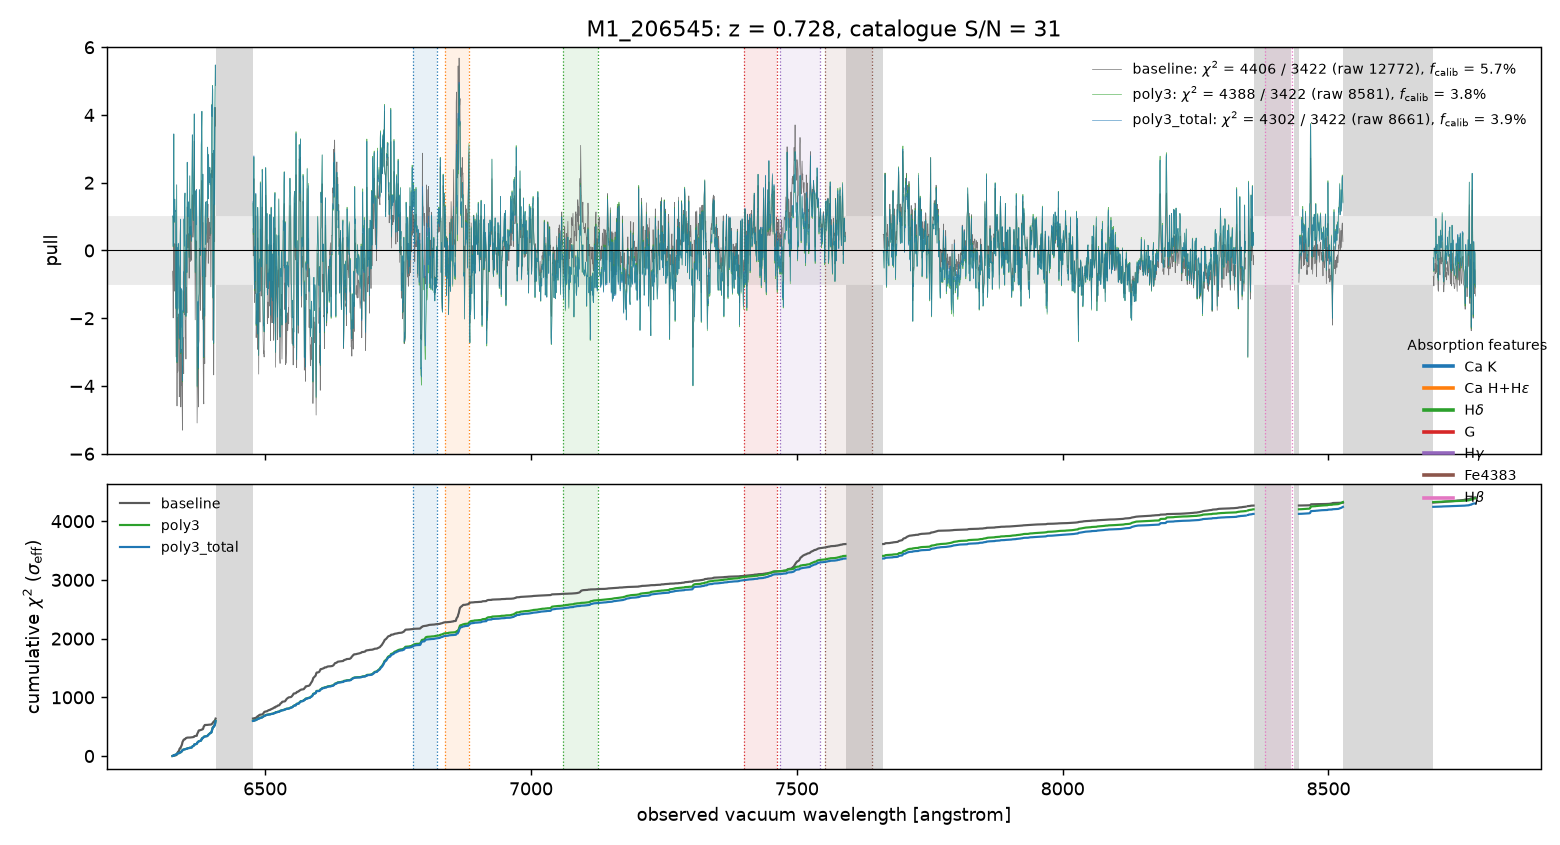
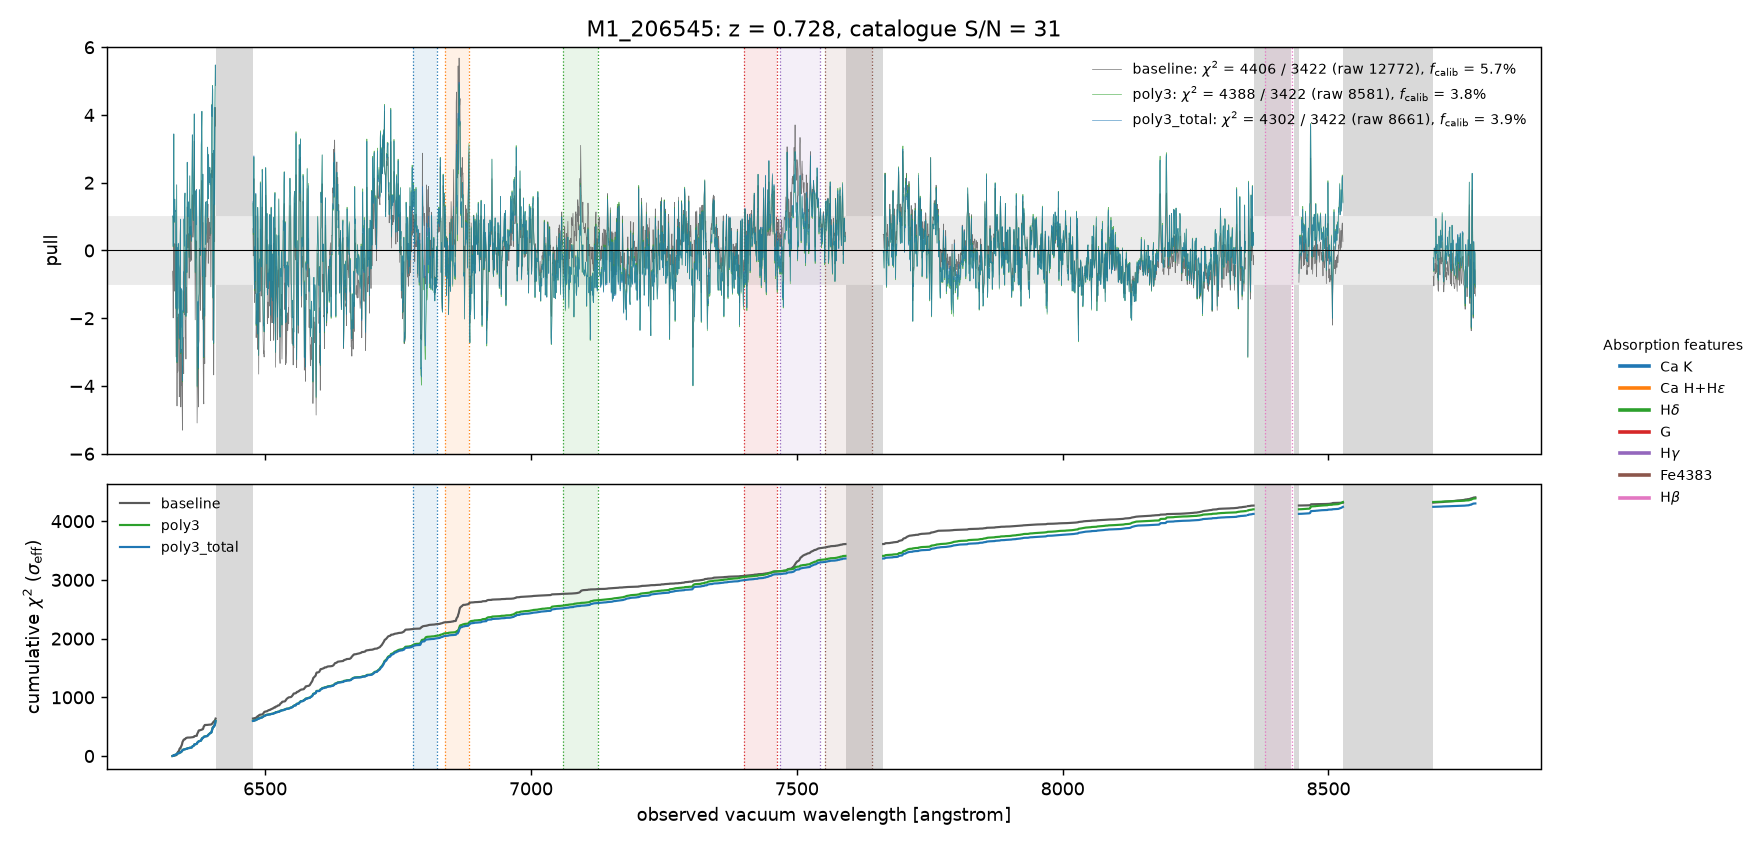
Wiki: sampler progress file and relabelled spectrum figures
Claude-Session: https://claude.ai/code/session_01NptaFvBib8QHPUnAHDRvcE

diff --git a/wiki/log.md b/wiki/log.md
@@ -887,3 +887,10 @@
 - Change: On Liu Hao's instruction every existing executed notebook got one added cell, tagged `dust-sfh-all-bins`, with the dust parameters against every formed-mass fraction and the per-pair Spearman lines. `scripts/add_dust_sfh_corner.py` builds it from `ceridwen_result.h5` with the notebook's own seed and bin edges. No fit was run. 556 of 558 notebooks done; 551 rebuilt draws match the saved `sfh/mass_fraction_draws`; 5 have no `ceridwen_derived_outputs.h5` and use the notebook's seed and the LEGA-C DR2 catalogue redshift. 2 have no `ceridwen_result.h5` and are unchanged: results/fit-accuracy-knobs/mock_tilt4_new_default/172669-M5_172669 and archive/results/a100-feature-spectrum. 163 of the changed notebooks are tracked in git; the rest are untracked on disk. Wording by Claude; Codex quota exhausted until 19 Sep.
 - Files: scripts/add_dust_sfh_corner.py, results/ and archive/results/ executed notebooks, wiki/notes/notebook-map.md.
 - Validation: nbformat validation passes on every changed notebook; each has one tagged cell; tracked diffs are insertions only; figures from every batch viewed, no overlaps or clipping.
+
+## [2026-09-17] revise | Sampler progress moved to a file and absorption labels on existing figures
+
+- Pages: [[notebook-map]]
+- Change: On Liu Hao's instruction the template sampler cell runs with `verbose=False` and the sampler writes one JSON line per iteration to `RESULT_DIR/ns_progress.jsonl`, with dead points per second and likelihood calls per second. The cell keeps the settings line, one rate summary and the result summary. `scripts/relabel_executed_figures.py` redrew the fit and posterior-predictive spectrum figures of existing executed notebooks from `ceridwen_derived_outputs.h5` with absorption labels, in the same cell and output slot, and removed sampler progress lines that `execution.log` also holds. No fit was run. 530 of 558 notebooks relabelled; 21 already carried labels; 7 have no `ceridwen_derived_outputs.h5` and are unchanged. 137 changed notebooks are tracked in git. 393 are untracked on disk, so their previous PNGs exist nowhere else; the same h5 can redraw them. Five analysis notebooks were re-executed on CPU with `spectral_tight_layout`, so the feature legend no longer overlaps the axes: calibration-polynomial-dr2/analysis, fit-accuracy-knobs/analysis, fit-accuracy-knobs/new-defaults, redshift-sigma-wiggle/analysis, dr2-quiescent-new-defaults/ceridwen_new_defaults_comparison. `plot_windows` in `scripts/absorption_mask_report.py` uses the shared marking; `feature_windows_M5_172669.png` regenerated. Wording by Claude; Codex quota exhausted until 19 Sep.
+- Files: ceridwen/ceridwen/sampler/nested.py (submodule b419fd1), both template notebooks, scripts/relabel_executed_figures.py, scripts/per_galaxy_diagnostics.py, scripts/absorption_mask_report.py, scripts/run_ceridwen_vast_multi_gpu.py, tests/test_relabel_executed_figures.py, tests/test_per_galaxy_diagnostics.py, tests/test_ceridwen_dr2_production.py, wiki/analyses/absorption-mask/, wiki/notes/notebook-map.md.
+- Validation: M13_232627 redraw compared with the original figure; 4038 valid and 3526 fitted pixels match the notebook printout and the mask gaps match. Tracked diffs touch only the sampler, predictive and fit cells. A quick local template run gives a two-block sampler cell and a five-line `ns_progress.jsonl`. Figures checked at 900 px. Tests for the touched files pass.

diff --git a/wiki/notes/notebook-map.md b/wiki/notes/notebook-map.md
@@ -73,6 +73,10 @@ The full-spectrum fit figure shades nine major absorption features from `ceridwe
 
 That marking is the production standard for every plot with a wavelength axis. `scripts/spectral_figures.py` holds it: `mark_absorption_features(ax, zred)` gives each feature a fixed colour for its shading and dotted edges. One legend lists the visible features on the right. `spectral_tight_layout(fig)` reserves the legend column without narrowing the original figure. Photometric SED panels in observed μm and non-wavelength plots (corner, SFH, histograms) stay bare. Tests: `tests/test_spectral_figures.py`.
 
+The sampler cell of both template notebooks runs `BlackJAXNestedSamplerAdapter` with `verbose=False` and `progress_path=RESULT_DIR / "ns_progress.jsonl"`. The cell output holds the `sampler settings:` line, one `sampler progress:` line and `result.summary()`. The progress line gives iterations, dead points per second, likelihood calls per second and the file path. The sampler appends one JSON line per iteration and flushes it, so a killed run keeps its history. Each line holds `iteration`, `n_discarded`, `n_likelihood_calls`, `logZ`, `logZ_live`, `delta_logZ`, `elapsed_s`, `iteration_s`, `dead_per_s` and `likelihood_calls_per_s`. Both rates are cumulative over `elapsed_s`. `scripts/run_ceridwen_vast_multi_gpu.py` fetches the file with the other results. Tests: `ceridwen/tests/test_ns_checkpoint.py`, `tests/test_ceridwen_dr2_production.py`.
+
+Executed notebooks older than the marking standard were not refitted. `scripts/relabel_executed_figures.py` redraws the fit figure and the posterior-predictive spectrum figure from `ceridwen_derived_outputs.h5`, with `plot_fit_spectrum` and `plot_predictive_spectrum` in `scripts/per_galaxy_diagnostics.py`. It replaces the PNG in the same cell and output slot, so wiki figure references by cell and output index still resolve. It finds cells by source text, not by index. It removes sampler progress lines from the sampler cell only when `execution.log` beside the notebook holds the same text. Changed cells carry the metadata key `relabelled_by`, and a second run skips them. The data legend of the fit figure sits below the panels. Inside the axes it covered the band names. Tests: `tests/test_relabel_executed_figures.py`, `tests/test_per_galaxy_diagnostics.py`.
+
 An early cell shows the target itself. It reads the HST ACS F814W cutout from `data/raw/hst_f814w/`. It draws the cutout with an asinh stretch. The axes give the offset from the catalogue position in arcseconds. North is up and east is left. A circle of 1.5-arcsecond radius marks the COSMOS2015 3-arcsecond aperture. The cell prints a note and draws nothing when the cutout is absent. `scripts/backfill_hst_cutout_cell.py` inserted the same cell, with its output, into the 187 executed notebooks under `results/dr2-quiescent-new-defaults/`. That backfill repeated no fit.
 
 The joint notebook reads `CERIDWEN_TARGET_ID`, `CERIDWEN_RESULT_DIR`, and `CERIDWEN_RANDOM_SEED`. The defaults retain the original M1_210210 run. The Vast multi-GPU launcher sets one fixed target and seed for each sequential one-GPU worker.

diff --git a/wiki/index.md b/wiki/index.md
@@ -131,3 +131,8 @@ comparison issues; factual configurations and unit limitations remain in the rec
 Absorption-feature plotting default: `scripts/spectral_figures.py` assigns fixed
 colours and one right-side legend. Finish marked figures with
 `spectral_tight_layout`; see `notes/notebook-map.md`.
+
+Sampler progress default: fit notebooks write one JSON line per iteration to
+`ns_progress.jsonl` in the result folder and keep it out of the cell output.
+`scripts/relabel_executed_figures.py` redraws labelled spectrum figures in
+existing executed notebooks from stored arrays; see `notes/notebook-map.md`.
